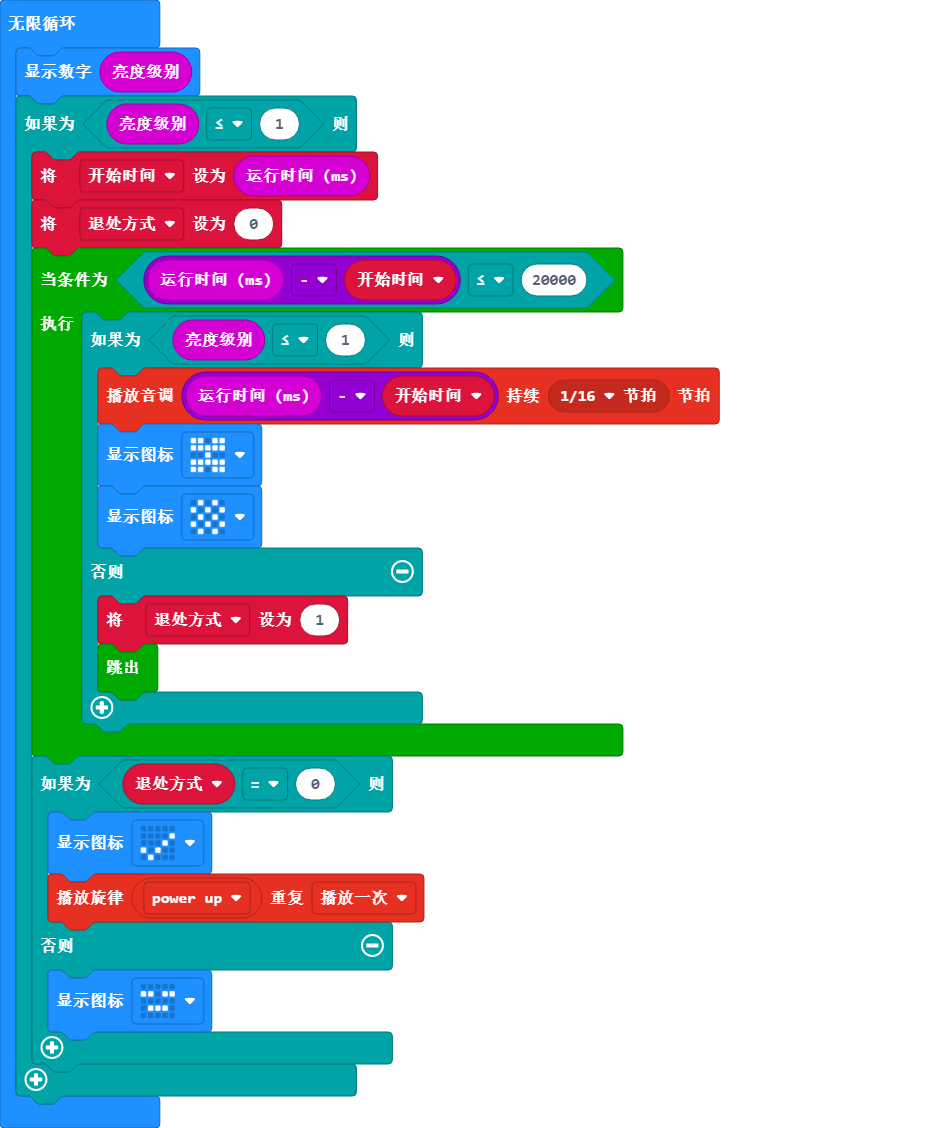
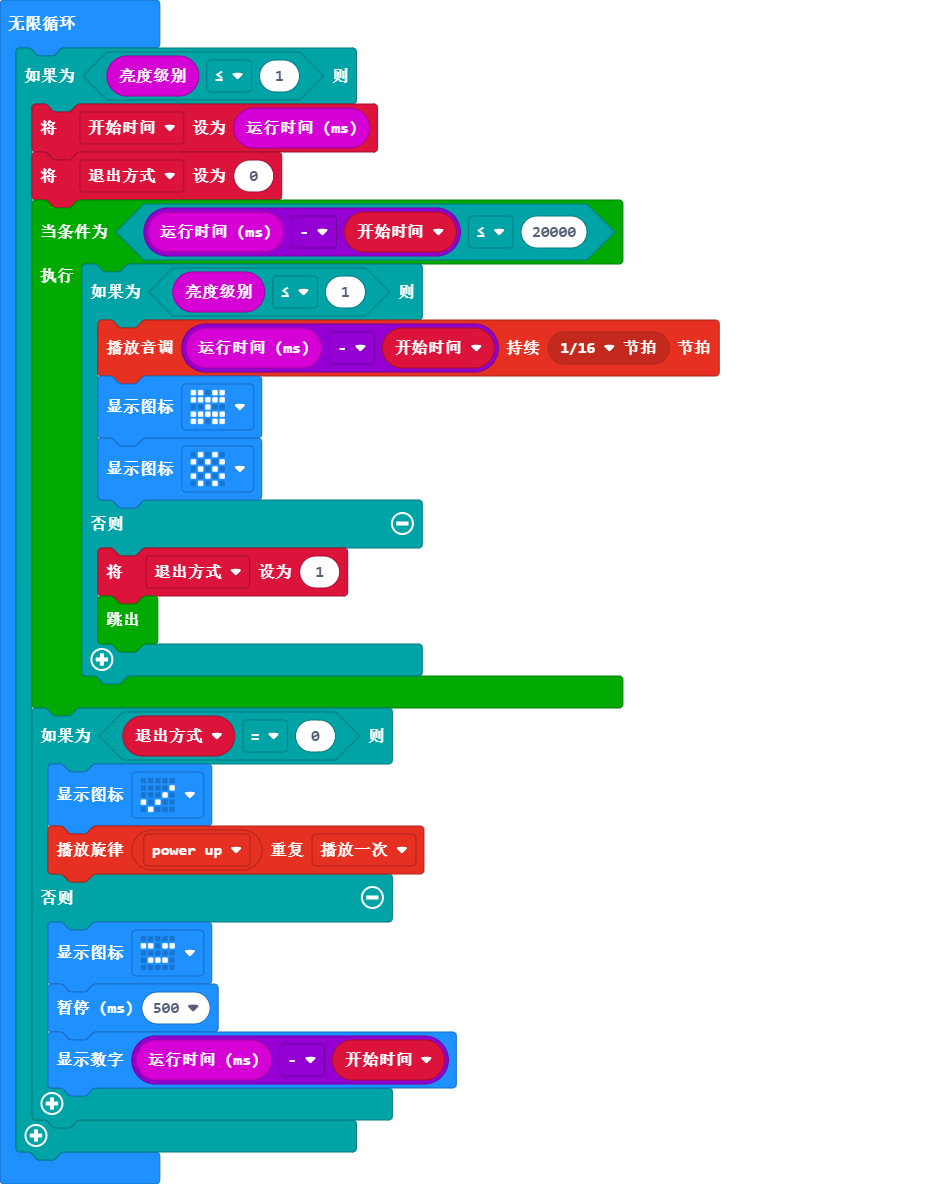
更新 main.blocks, main.ts

diff --git a/main.ts b/main.ts
@@ -1,25 +1,26 @@
 let 开始时间 = 0
-let 退处方式 = 0
+let 退出方式 = 0
 basic.forever(function () {
-    basic.showNumber(input.lightLevel())
     if (input.lightLevel() <= 1) {
         开始时间 = input.runningTime()
-        退处方式 = 0
+        退出方式 = 0
         while (input.runningTime() - 开始时间 <= 20000) {
             if (input.lightLevel() <= 1) {
                 music.playTone(input.runningTime() - 开始时间, music.beat(BeatFraction.Sixteenth))
                 basic.showIcon(IconNames.Butterfly)
                 basic.showIcon(IconNames.Chessboard)
             } else {
-                退处方式 = 1
+                退出方式 = 1
                 break;
             }
         }
-        if (退处方式 == 0) {
+        if (退出方式 == 0) {
             basic.showIcon(IconNames.Yes)
             music.startMelody(music.builtInMelody(Melodies.PowerUp), MelodyOptions.Once)
         } else {
             basic.showIcon(IconNames.Asleep)
+            basic.pause(500)
+            basic.showNumber(input.runningTime() - 开始时间)
         }
     }
 })
